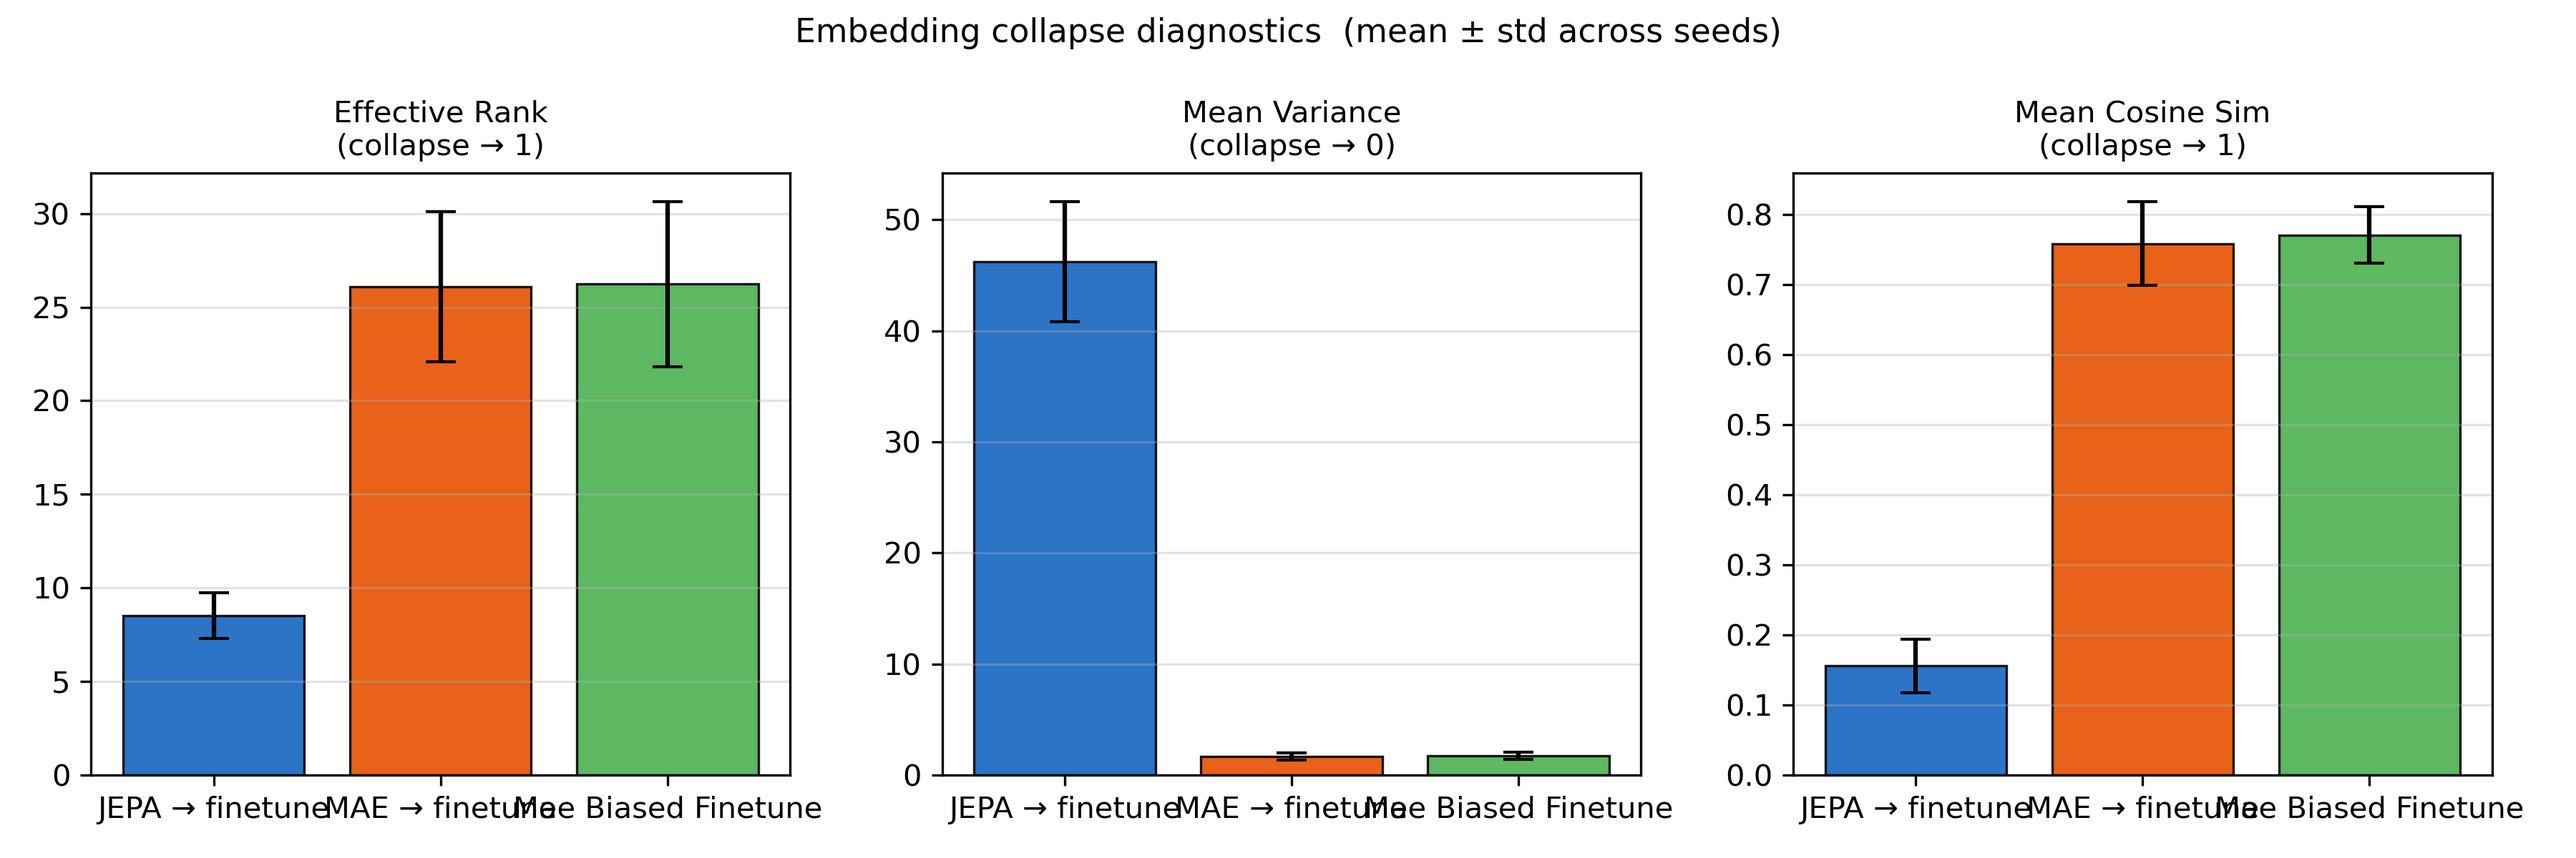
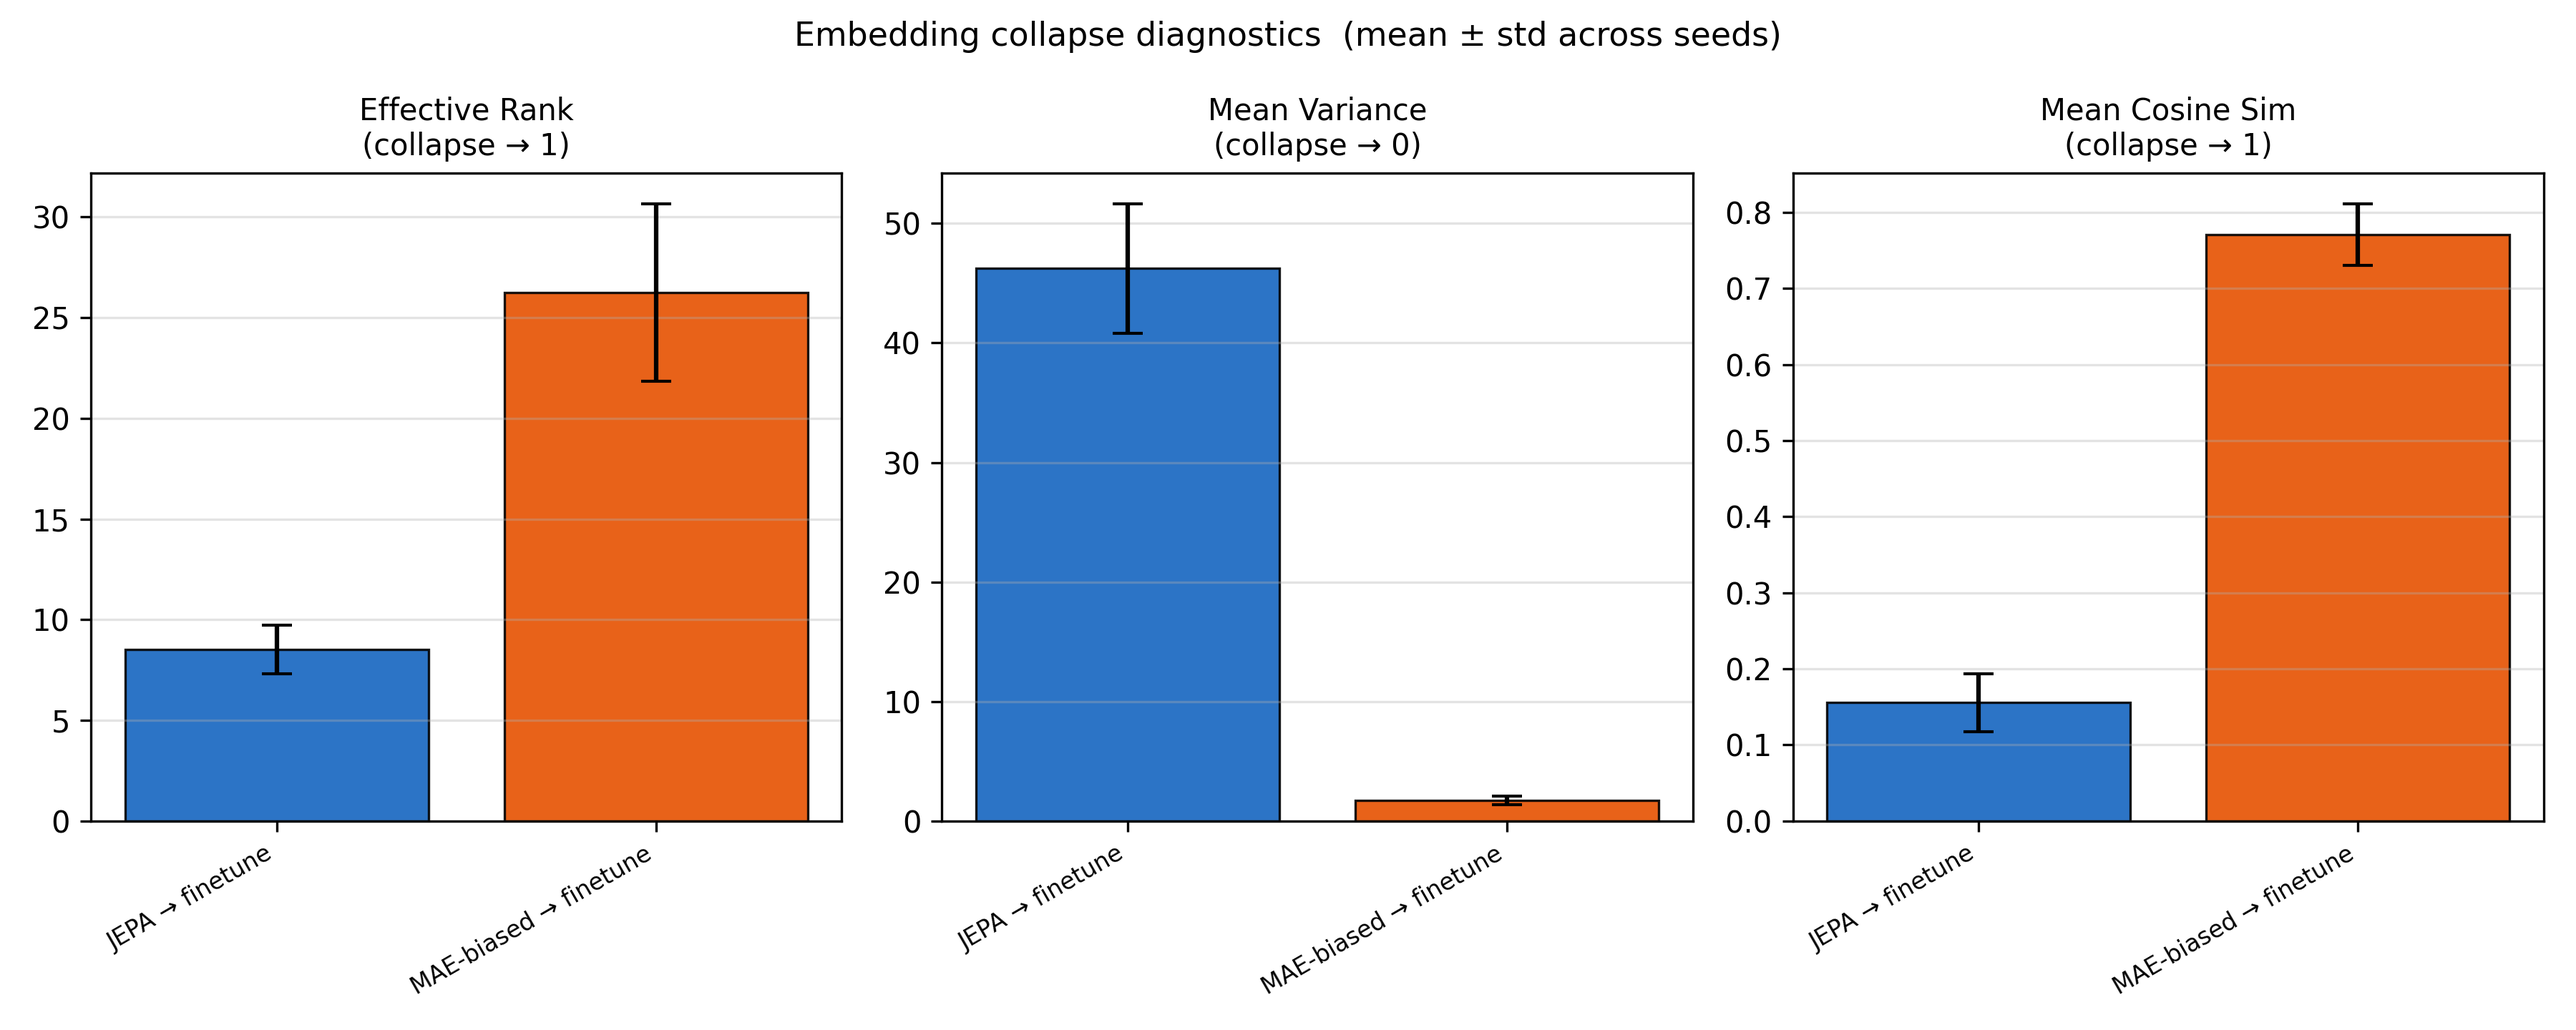
new viz scripts

diff --git a/experiments/plot_confusion.py b/experiments/plot_confusion.py
@@ -1,0 +1,168 @@
+"""
+Confusion-matrix grid for arbitrary trained classifiers.
+
+Confusion matrices aren't stored in the result JSONs, so this re-runs test-set
+inference on each checkpoint. Conditions are given as `label:glob` specs — the glob
+expands to one or more checkpoints (e.g. seeds), whose predictions are pooled. Lays
+the conditions out in an auto grid of row-normalized 10×10 matrices (diagonal =
+per-class recall). Must run where the checkpoints + test data live (GPU).
+
+    # one condition, 3 seeds pooled
+    python experiments/plot_confusion.py \\
+        --checkpoints "JEPA→FT:logs/LorentzParT/best/jepa_ft_seed*.pt" \\
+        --data-dir ./data --output experiments/confusion_jepa.png
+
+    # objective × masking 2×2 (any number of conditions; --ncols controls layout)
+    python experiments/plot_confusion.py --ncols 2 --data-dir ./data \\
+        --checkpoints \\
+            "JEPA·random:logs/LorentzParT/best/jepa_ft_seed*.pt" \\
+            "JEPA·biased:logs/LorentzParT/best/no_gate_biased_ft_seed*.pt" \\
+            "MAE·random:logs/LorentzParT/best/mae_ft_seed*.pt" \\
+            "MAE·biased:logs/LorentzParT/best/mae_biased_ft_seed*.pt"
+
+--config-path gives the model architecture; --model picks the build (lorentz_part
+or linear_probe), matching scripts/evaluate.py.
+"""
+
+import argparse
+import glob
+import math
+import os
+import sys
+
+import numpy as np
+import torch
+import yaml
+from torch.utils.data import DataLoader
+from sklearn.metrics import confusion_matrix
+
+import matplotlib
+matplotlib.use('Agg')
+import matplotlib.pyplot as plt
+
+sys.path.insert(0, os.path.dirname(os.path.dirname(os.path.abspath(__file__))))
+from src.configs import LorentzParTConfig
+from src.models import LorentzParT, LinearProbeModel
+from src.utils.data import NpyJetClassDataset
+
+NORM_DICT = {
+    'pT':     (92.72917175292969,    105.83937072753906),
+    'eta':    (0.0005733045982196927, 0.9174848794937134),
+    'phi':    (-0.00041169871110469103, 1.8136887550354004),
+    'energy': (133.8745574951172,    167.528564453125),
+}
+NORMALIZE = [True, False, False, True]
+CLASS_NAMES = ['QCD', 'Hbb', 'Hcc', 'Hgg', 'H4q', 'Hlνqq', 'Zqq', 'Wqq', 'tbqq', 'tblν']
+
+
+def parse_args():
+    p = argparse.ArgumentParser(description="Confusion-matrix grid for any classifiers")
+    p.add_argument('--checkpoints', nargs='+', required=True, metavar='LABEL:GLOB',
+                   help='label:checkpoint-glob specs; glob matches seed checkpoints to pool')
+    p.add_argument('--data-dir', default='./data')
+    p.add_argument('--config-path', default='./configs/train_lorentz_part.yaml')
+    p.add_argument('--model', default='lorentz_part', choices=['lorentz_part', 'linear_probe'])
+    p.add_argument('--ncols', type=int, default=2)
+    p.add_argument('--gpu', type=int, default=0)
+    p.add_argument('--output', default='./experiments/confusion.png')
+    return p.parse_args()
+
+
+def parse_specs(specs):
+    out = []
+    for s in specs:
+        label, pattern = s.split(':', 1)
+        out.append((label, pattern))
+    return out
+
+
+def build_model(model_kind, cfg, ckpt, device):
+    state = torch.load(ckpt, map_location='cpu', weights_only=True)
+    if model_kind == 'linear_probe':
+        model = LinearProbeModel(
+            encoder_weights=ckpt, embed_dim=cfg.embed_dim, num_classes=cfg.num_classes,
+            encoder_kwargs=dict(num_heads=cfg.num_heads, num_layers=cfg.num_layers,
+                                dropout=cfg.dropout, expansion_factor=cfg.expansion_factor,
+                                pair_embed_dims=cfg.pair_embed_dims),
+        )
+    else:
+        cfg.inference = True
+        model = LorentzParT(config=cfg)
+    model.load_state_dict(state, strict=False)
+    return model.to(device).eval()
+
+
+@torch.no_grad()
+def predict(model, loader, device):
+    pred, true = [], []
+    for X, y in loader:
+        pred.append(model(X.to(device)).argmax(1).cpu().numpy())
+        true.append(y.argmax(1).numpy())
+    return np.concatenate(true), np.concatenate(pred)
+
+
+def pooled_confusion(pattern, model_kind, cfg, loader, device):
+    """Sum confusion counts over all checkpoints matching the glob, then row-normalize."""
+    files = sorted(glob.glob(pattern))
+    if not files:
+        return None, 0
+    total = np.zeros((10, 10), dtype=np.int64)
+    for ckpt in files:
+        model = build_model(model_kind, cfg, ckpt, device)
+        yt, yp = predict(model, loader, device)
+        total += confusion_matrix(yt, yp, labels=list(range(10)))
+    return total / total.sum(axis=1, keepdims=True).clip(min=1), len(files)
+
+
+def main():
+    args = parse_args()
+    device = torch.device(f'cuda:{args.gpu}' if torch.cuda.is_available() else 'cpu')
+    cfg = LorentzParTConfig.from_dict(yaml.safe_load(open(args.config_path))['model'])
+
+    ds = NpyJetClassDataset(
+        os.path.join(args.data_dir, 'test', 'particles.npy'),
+        os.path.join(args.data_dir, 'test', 'labels.npy'),
+        normalize=NORMALIZE, norm_dict=NORM_DICT,
+    )
+    loader = DataLoader(ds, batch_size=1000, shuffle=False, num_workers=4, pin_memory=True)
+
+    specs = parse_specs(args.checkpoints)
+    n = len(specs)
+    ncols = min(args.ncols, n)
+    nrows = math.ceil(n / ncols)
+    fig, axes = plt.subplots(nrows, ncols, figsize=(ncols * 7, nrows * 6.5), squeeze=False)
+
+    for idx, (label, pattern) in enumerate(specs):
+        ax = axes[idx // ncols][idx % ncols]
+        cm, k = pooled_confusion(pattern, args.model, cfg, loader, device)
+        if cm is None:
+            ax.set_title(f'{label}  (no checkpoints matched)')
+            ax.axis('off')
+            print(f"  [skip] no files match {pattern}")
+            continue
+        ax.imshow(cm, cmap='Blues', vmin=0, vmax=1)
+        ax.set_title(f'{label}   (mean recall {np.diag(cm).mean():.3f}, n={k})', fontsize=11)
+        ax.set_xticks(range(10)); ax.set_xticklabels(CLASS_NAMES, rotation=45, ha='right', fontsize=8)
+        ax.set_yticks(range(10)); ax.set_yticklabels(CLASS_NAMES, fontsize=8)
+        ax.set_xlabel('Predicted', fontsize=9); ax.set_ylabel('True', fontsize=9)
+        for i in range(10):
+            for j in range(10):
+                v = cm[i, j]
+                if v >= 0.01:
+                    ax.text(j, i, f'{v:.2f}', ha='center', va='center', fontsize=6,
+                            color='white' if v > 0.5 else 'black')
+        print(f"  {label}: mean recall {np.diag(cm).mean():.3f} (n={k})")
+
+    # hide any unused grid cells
+    for idx in range(n, nrows * ncols):
+        axes[idx // ncols][idx % ncols].axis('off')
+
+    fig.suptitle('Confusion matrices (row-normalized = per-class recall)', fontsize=13)
+    fig.tight_layout()
+    plt.savefig(args.output, dpi=200)
+    plt.close()
+    print(f"Saved → {args.output}")
+
+
+if __name__ == '__main__':
+    main()

diff --git a/experiments/plot_masking_effect.py b/experiments/plot_masking_effect.py
@@ -1,0 +1,142 @@
+"""
+Effect of biased vs random masking on each objective (JEPA and MAE).
+
+The (objective × masking) 2×2, as grouped bars: shows biased masking helps BOTH
+objectives — and helps MAE more (it was the one handicapped by random masking).
+JEPA cells use the NO-GATE variants so masking is the only variable.
+
+Cells (test AUC, 3 seeds):
+    JEPA random  ← phase1/results : no_gate_random
+    JEPA biased  ← phase1/results : no_gate_biased
+    MAE  random  ← phase0/results : mae_finetune
+    MAE  biased  ← phase0/results : mae_biased_finetune
+
+    python experiments/plot_masking_effect.py
+"""
+
+import argparse
+import glob
+import json
+import os
+
+import matplotlib
+matplotlib.use('Agg')
+import matplotlib.pyplot as plt
+import numpy as np
+
+# (group, masking) -> (results_dir_arg, condition_key)
+CELLS = {
+    ('JEPA', 'random'): ('phase1', 'no_gate_random'),
+    ('JEPA', 'biased'): ('phase1', 'no_gate_biased'),
+    ('MAE',  'random'): ('phase0', 'mae_finetune'),
+    ('MAE',  'biased'): ('phase0', 'mae_biased_finetune'),
+}
+GROUPS = ['JEPA', 'MAE']
+MASKINGS = ['random', 'biased']
+COLORS = {'random': '#90CAF9', 'biased': '#1565C0'}
+
+
+def parse_args():
+    p = argparse.ArgumentParser(description="Biased-vs-random masking effect per objective")
+    p.add_argument('--phase0-dir', default='./experiments/phase0/results')
+    p.add_argument('--phase1-dir', default='./experiments/phase1/results')
+    p.add_argument('--output', default='./experiments/masking_effect.png')
+    return p.parse_args()
+
+
+def _collect(results_dir, cond, key, nested=None):
+    """Mean, std, n of a metric for a condition across that dir's seed JSONs."""
+    vals = []
+    for f in sorted(glob.glob(os.path.join(results_dir, 'seed_*.json'))):
+        c = json.load(open(f))['conditions'].get(cond, {})
+        if nested:
+            c = c.get(nested, {})
+        if key in c:
+            vals.append(c[key])
+    if not vals:
+        raise ValueError(f"no {key} for {cond} in {results_dir}")
+    return np.mean(vals), np.std(vals), len(vals)
+
+
+def auc(results_dir, cond):
+    return _collect(results_dir, cond, 'test_auc')
+
+
+def main():
+    args = parse_args()
+    dirs = {'phase0': args.phase0_dir, 'phase1': args.phase1_dir}
+
+    stats = {}
+    n = 0
+    for (group, masking), (which, cond) in CELLS.items():
+        m, s, k = auc(dirs[which], cond)
+        stats[(group, masking)] = (m, s)
+        n = max(n, k)
+
+    fig, ax = plt.subplots(figsize=(7.5, 5.5))
+    x = np.arange(len(GROUPS))
+    w = 0.36
+    for i, masking in enumerate(MASKINGS):
+        means = [stats[(g, masking)][0] for g in GROUPS]
+        stds  = [stats[(g, masking)][1] for g in GROUPS]
+        bars = ax.bar(x + (i - 0.5) * w, means, w, yerr=stds, capsize=5,
+                      label=f'{masking} masking', color=COLORS[masking],
+                      edgecolor='black', linewidth=0.8)
+        for b, mv in zip(bars, means):
+            ax.text(b.get_x() + b.get_width() / 2, b.get_height() + 0.006,
+                    f'{mv:.3f}', ha='center', va='bottom', fontsize=9, fontweight='bold')
+
+    # Δ (biased − random) annotation per objective
+    for xi, g in zip(x, GROUPS):
+        d = stats[(g, 'biased')][0] - stats[(g, 'random')][0]
+        top = max(stats[(g, 'random')][0], stats[(g, 'biased')][0])
+        ax.text(xi, top + 0.045, f'Δ={d:+.3f}', ha='center', fontsize=10,
+                bbox=dict(boxstyle='round', fc='#FFF9C4', ec='gray'))
+
+    ax.set_xticks(x)
+    ax.set_xticklabels(GROUPS, fontsize=12)
+    ax.set_ylabel('OVO ROC AUC', fontsize=11)
+    ax.set_ylim(0.6, 0.85)
+    ax.set_title(f'Biased masking helps both objectives  (gate off, n={n} seeds, ±1 std)',
+                 fontsize=11)
+    ax.legend(fontsize=10)
+    ax.grid(axis='y', alpha=0.35)
+    fig.tight_layout()
+    plt.savefig(args.output, dpi=300)
+    plt.close()
+
+    print(f"Saved → {args.output}")
+    for g in GROUPS:
+        r, b = stats[(g, 'random')][0], stats[(g, 'biased')][0]
+        print(f"  {g:4s}  random {r:.4f}  biased {b:.4f}  Δ {b - r:+.4f}")
+
+    # ── Paired embedding-geometry figure (same grouping, 3 metrics) ──────────────
+    metrics = [('effective_rank', 'Effective Rank\n(collapse → 1)'),
+               ('mean_var',        'Mean Variance\n(collapse → 0)'),
+               ('mean_cos_sim',    'Mean Cosine Sim\n(collapse → 1)')]
+    fig, axes = plt.subplots(1, 3, figsize=(14, 4.8))
+    for ax, (key, title) in zip(axes, metrics):
+        for i, masking in enumerate(MASKINGS):
+            means, stds = [], []
+            for g in GROUPS:
+                which, cond = CELLS[(g, masking)]
+                m, s, _ = _collect(dirs[which], cond, key, nested='embedding_stats')
+                means.append(m); stds.append(s)
+            ax.bar(x + (i - 0.5) * w, means, w, yerr=stds, capsize=4,
+                   label=f'{masking} masking', color=COLORS[masking],
+                   edgecolor='black', linewidth=0.8)
+        ax.set_xticks(x); ax.set_xticklabels(GROUPS, fontsize=11)
+        ax.set_title(title, fontsize=10)
+        ax.grid(axis='y', alpha=0.35)
+    axes[0].legend(fontsize=9)
+    fig.suptitle('Representation geometry: objective dominates, masking barely moves it  '
+                 f'(gate off, n={n} seeds, ±1 std)', fontsize=11)
+    fig.tight_layout()
+    embed_out = args.output.replace('.png', '_embedding.png')
+    plt.savefig(embed_out, dpi=300)
+    plt.close()
+    print(f"Saved → {embed_out}")
+
+
+if __name__ == '__main__':
+    main()

diff --git a/experiments/analyze_results.py b/experiments/analyze_results.py
@@ -27,9 +27,11 @@ CONDITION_ORDER  = ['jepa_finetune', 'mae_finetune', 'scratch', 'jepa_probe', 'm
 CONDITION_LABELS = {
     'jepa_finetune':    'JEPA → finetune',
     'mae_finetune':     'MAE → finetune',
+    'mae_biased_finetune': 'MAE-biased → finetune',
     'scratch':          'Scratch',
     'jepa_probe':       'JEPA → probe',
     'mae_probe':        'MAE → probe',
+    'mae_biased_probe': 'MAE-biased → probe',
     'gate_random':      'Gate + Random',
     'no_gate_biased':   'No Gate + Biased',
     'gate_biased':      'Gate + Biased',
@@ -37,9 +39,11 @@ CONDITION_LABELS = {
 CONDITION_COLORS = {
     'jepa_finetune':    '#1565C0',
     'mae_finetune':     '#E65100',
+    'mae_biased_finetune': '#E65100',
     'scratch':          '#757575',
     'jepa_probe':       '#90CAF9',
     'mae_probe':        '#FFCC80',
+    'mae_biased_probe': '#FFCC80',
     'gate_random':      '#1B5E20',
     'no_gate_biased':   '#4A148C',
     'gate_biased':      '#B71C1C',
